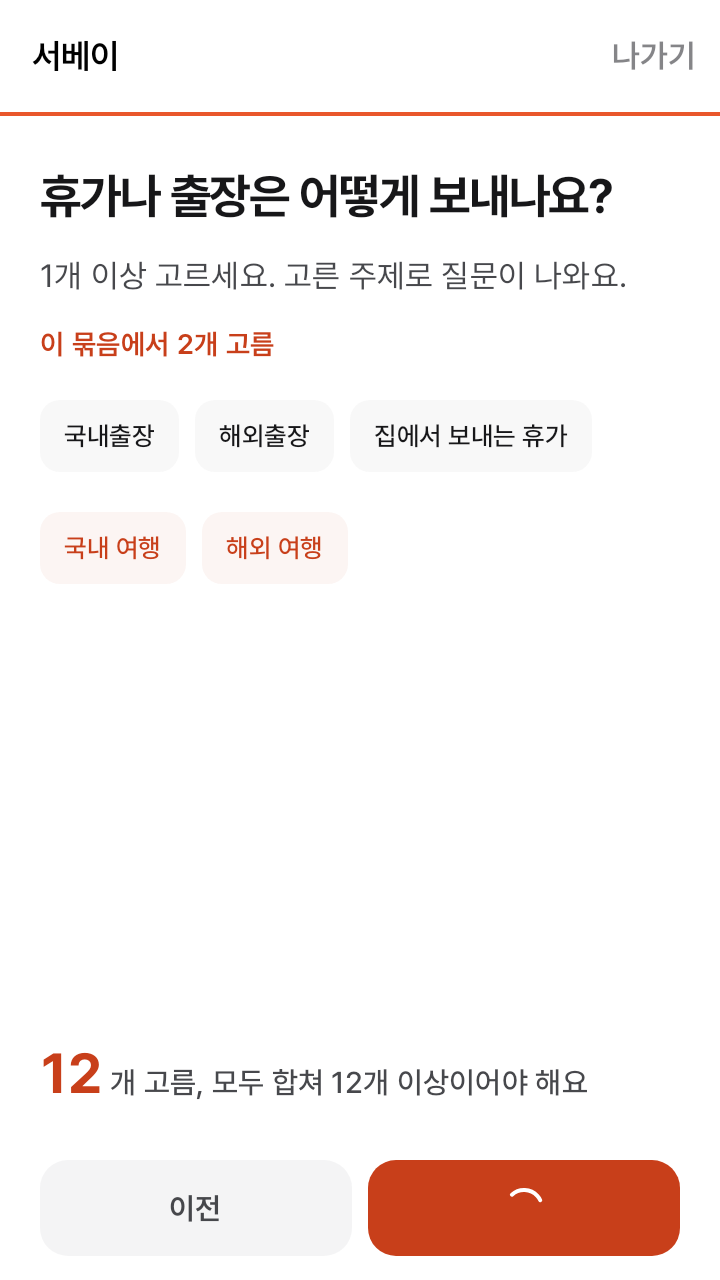
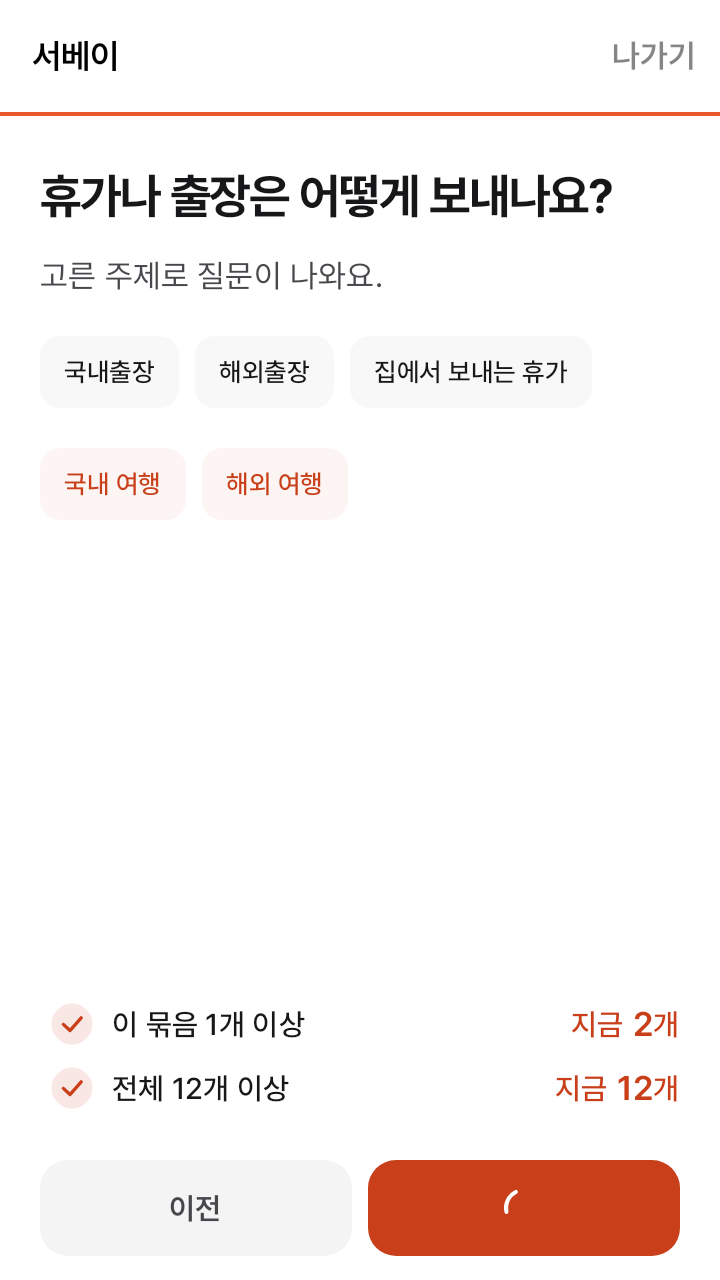
[survey-count] 서베이 묶음 화면마다 묶음 최소와 전체 12개 조건을 버튼 위에 고정해 보인다 (#187)

diff --git a/ui/feature-exam/src/commonMain/kotlin/io/github/nosorae/aiopic/ui/featureexam/SurveyFlow.kt b/ui/feature-exam/src/commonMain/kotlin/io/github/nosorae/aiopic/ui/featureexam/SurveyFlow.kt
@@ -5,12 +5,14 @@ import androidx.compose.animation.slideInHorizontally
 import androidx.compose.animation.slideOutHorizontally
 import androidx.compose.animation.togetherWith
 import androidx.compose.foundation.layout.Arrangement
+import androidx.compose.foundation.layout.Box
 import androidx.compose.foundation.layout.Column
 import androidx.compose.foundation.layout.FlowRow
 import androidx.compose.foundation.layout.Row
 import androidx.compose.foundation.layout.fillMaxSize
 import androidx.compose.foundation.layout.fillMaxWidth
 import androidx.compose.foundation.layout.padding
+import androidx.compose.foundation.layout.size
 import androidx.compose.foundation.rememberScrollState
 import androidx.compose.foundation.verticalScroll
 import androidx.compose.material3.Text
@@ -27,6 +29,7 @@ import io.github.nosorae.aiopic.libs.haptics.api.HapticEffect
 import io.github.nosorae.aiopic.ui.design.LocalHaptics
 import io.github.nosorae.aiopic.ui.design.MontageButton
 import io.github.nosorae.aiopic.ui.design.MontageButtonType
+import io.github.nosorae.aiopic.ui.design.MontageCheckMark
 import io.github.nosorae.aiopic.ui.design.MontageChip
 import io.github.nosorae.aiopic.ui.design.MontageCountUp
 import io.github.nosorae.aiopic.ui.design.MontageListCell
@@ -38,7 +41,7 @@ import org.jetbrains.compose.resources.stringResource
 
 /**
  * 서베이 한 화면. 맨 위 진행 막대 아래에 질문 하나 또는 주제 묶음 하나를 그리고, 화면이 바뀌면 옆으로 밀려난다.
- * 마지막 묶음 화면이면 모든 묶음에서 고른 수를 맨 아래에 고정해 보인다.
+ * 묶음 화면이면 그 묶음의 최소 개수와 전체 최소 개수를 맨 아래에 고정해 보인다.
  * 앞으로 가면 새 화면이 오른쪽에서, 뒤로 가면 왼쪽에서 들어온다. 모의시험의 서베이 단계와 설정의 서베이가 같이 쓴다.
  */
 @Composable
@@ -61,7 +64,7 @@ fun SurveyFlow(state: SurveyState, onChoose: (String) -> Unit, onToggle: (String
             shown.group?.let { GroupScreen(shown, it, onToggle, scrolling) }
         }
         // 큰 글자에서 칩이 길어져도 스크롤 아래로 밀리지 않게 스크롤 밖, 버튼 바로 위에 둔다.
-        if (state.isLast) Total(state)
+        state.group?.let { Needs(state, it) }
     }
 }
 
@@ -117,16 +120,9 @@ private fun QuestionScreen(question: SurveyQuestion, chosen: String?, onChoose: 
 @Composable
 private fun GroupScreen(state: SurveyState, group: TopicGroup, onToggle: (String) -> Unit, modifier: Modifier = Modifier) {
     val haptics = LocalHaptics.current
-    val count = state.selectedIn(group)
     Column(modifier, verticalArrangement = Arrangement.spacedBy(MontageSpacing.spacing12)) {
         Title(group.title)
-        Help(stringResource(Res.string.survey_group_help, group.min))
-        Text(
-            text = stringResource(Res.string.survey_group_count, count),
-            style = MontageTheme.typography.label1.bold,
-            color = if (count >= group.min) MontageTheme.colors.foregroundBrandPrimary else MontageTheme.colors.foregroundNeutralSecondary,
-            modifier = Modifier.padding(horizontal = Gutter),
-        )
+        Help(stringResource(Res.string.survey_group_help))
         FlowRow(
             modifier = Modifier.padding(horizontal = Gutter),
             horizontalArrangement = Arrangement.spacedBy(MontageSpacing.spacing8),
@@ -147,27 +143,43 @@ private fun GroupScreen(state: SurveyState, group: TopicGroup, onToggle: (String
     }
 }
 
-/** 마지막 묶음 화면에서 모든 묶음에서 고른 수를 숫자로 보인다. 모자라면 앞 묶음으로 돌아가라고 알린다. */
+/**
+ * 묶음 화면 아래 두 조건. 이 묶음 최소 개수와 전체 최소 개수(12개)를 지금 고른 수와 함께 보이고, 채운 조건에만 체크와 강조색을 준다.
+ * 어느 묶음에서든 전체까지 몇 개 남았는지 보인다. 마지막 묶음에서 전체가 모자라면 앞 묶음으로 돌아가라고 알린다.
+ */
 @Composable
-private fun Total(state: SurveyState) {
-    val enough = state.topics.size >= state.survey.minTopics
-    val color = if (enough) MontageTheme.colors.foregroundBrandPrimary else MontageTheme.colors.foregroundNeutralPrimary
-    Column(Modifier.padding(vertical = MontageSpacing.spacing12), verticalArrangement = Arrangement.spacedBy(MontageSpacing.spacing8)) {
-        Row(
-            modifier = Modifier.padding(horizontal = Gutter),
-            verticalAlignment = Alignment.Bottom,
-            horizontalArrangement = Arrangement.spacedBy(MontageSpacing.spacing4),
-        ) {
-            MontageCountUp(state.topics.size, Modifier.testTag("survey-total"), style = MontageTheme.typography.title2.bold, color = color)
-            Text(
-                text = stringResource(Res.string.survey_total_suffix, state.survey.minTopics),
-                style = MontageTheme.typography.body2.medium,
-                color = MontageTheme.colors.foregroundNeutralSecondary,
-                // 큰 글자에서 숫자를 밀어내지 않고 줄을 바꾼다.
-                modifier = Modifier.weight(1f, fill = false).padding(bottom = MontageSpacing.spacing4),
-            )
+private fun Needs(state: SurveyState, group: TopicGroup) {
+    val inGroup = state.selectedIn(group)
+    val total = state.topics.size
+    val enough = total >= state.survey.minTopics
+    Column(Modifier.padding(vertical = MontageSpacing.spacing8)) {
+        Need(stringResource(Res.string.survey_need_group, group.min), inGroup, inGroup >= group.min, "survey-group")
+        Need(stringResource(Res.string.survey_need_total, state.survey.minTopics), total, enough, "survey-total")
+        if (state.isLast && !enough) Help(stringResource(Res.string.survey_total_short))
+    }
+}
+
+/** 조건 한 줄. 채우면 왼쪽에 체크가 그려지고 숫자가 강조색이 된다. 숫자에는 [tag] 를, 체크에는 `[tag]-met` 를 붙인다. */
+@Composable
+private fun Need(label: String, count: Int, met: Boolean, tag: String) {
+    val color = if (met) MontageTheme.colors.foregroundBrandPrimary else MontageTheme.colors.foregroundNeutralSecondary
+    Row(
+        modifier = Modifier.padding(horizontal = Gutter),
+        verticalAlignment = Alignment.CenterVertically,
+        horizontalArrangement = Arrangement.spacedBy(MontageSpacing.spacing4),
+    ) {
+        Box(Modifier.size(MontageSpacing.spacing32)) { if (met) MontageCheckMark(Modifier.fillMaxSize().testTag("$tag-met")) }
+        Text(
+            text = label,
+            style = MontageTheme.typography.body2.medium,
+            color = MontageTheme.colors.foregroundNeutralPrimary,
+            modifier = Modifier.weight(1f),
+        )
+        Text(stringResource(Res.string.survey_need_now), style = MontageTheme.typography.body2.medium, color = color)
+        Row(verticalAlignment = Alignment.CenterVertically) {
+            MontageCountUp(count, Modifier.testTag(tag), style = MontageTheme.typography.headline2.bold, color = color)
+            Text(stringResource(Res.string.survey_need_unit), style = MontageTheme.typography.body2.medium, color = color)
         }
-        if (!enough) Help(stringResource(Res.string.survey_total_short))
     }
 }
 

diff --git a/ui/feature-exam/src/androidHostTest/kotlin/io/github/nosorae/aiopic/ui/featureexam/ExamScreenTest.kt b/ui/feature-exam/src/androidHostTest/kotlin/io/github/nosorae/aiopic/ui/featureexam/ExamScreenTest.kt
@@ -3,6 +3,7 @@ package io.github.nosorae.aiopic.ui.featureexam
 import androidx.compose.runtime.CompositionLocalProvider
 import androidx.compose.ui.test.assertIsDisplayed
 import androidx.compose.ui.test.assertIsNotEnabled
+import androidx.compose.ui.test.assertTextEquals
 import androidx.compose.ui.test.hasAnyAncestor
 import androidx.compose.ui.test.hasScrollAction
 import androidx.compose.ui.test.hasTestTag
@@ -99,11 +100,29 @@ class ExamScreenTest {
     }
 
     @Test
-    fun `F2_2 마지막 묶음의 전체 선택 수는 스크롤 밖에 있어 큰 글자에서도 아래로 밀리지 않는다`() {
+    fun `F2_2 첫 묶음 화면부터 전체 선택 수가 스크롤 밖 버튼 위에 있어 큰 글자에서도 아래로 밀리지 않는다`() {
+        show(ExamSamples.surveyGroup)
+
+        rule.onNodeWithTag("survey-total").assertIsDisplayed().assertTextEquals("3")
+        rule.onNode(hasTestTag("survey-total") and hasAnyAncestor(hasScrollAction())).assertDoesNotExist()
+    }
+
+    @Test
+    fun `F2_2 묶음 최소를 채우면 그 조건에만 체크가 붙고 전체 12개가 남았으면 전체에는 체크가 없다`() {
+        show(ExamSamples.surveyGroup)
+
+        rule.onNodeWithText("이 묶음 2개 이상").assertIsDisplayed()
+        rule.onNodeWithText("전체 12개 이상").assertIsDisplayed()
+        rule.onNodeWithTag("survey-group-met").assertIsDisplayed()
+        rule.onNodeWithTag("survey-total-met").assertDoesNotExist()
+    }
+
+    @Test
+    fun `F2_2 전체 12개에 닿으면 전체 조건에도 체크가 붙는다`() {
         show(ExamSamples.surveyReady)
 
-        rule.onNodeWithTag("survey-total").assertIsDisplayed()
-        rule.onNode(hasTestTag("survey-total") and hasAnyAncestor(hasScrollAction())).assertDoesNotExist()
+        rule.onNodeWithTag("survey-group-met").assertIsDisplayed()
+        rule.onNodeWithTag("survey-total-met").assertIsDisplayed()
     }
 
     @Test

diff --git a/ui/feature-exam/src/androidHostTest/kotlin/io/github/nosorae/aiopic/ui/featureexam/ExamScreenshotTest.kt b/ui/feature-exam/src/androidHostTest/kotlin/io/github/nosorae/aiopic/ui/featureexam/ExamScreenshotTest.kt
@@ -53,6 +53,8 @@ class ExamScreenshotTest {
 
     @Test fun survey_dark() = shot(ExamSamples.survey, dark = true)
 
+    @Test fun surveyGroup_dark() = shot(ExamSamples.surveyGroup, dark = true)
+
     @Test fun surveyReady_dark() = shot(ExamSamples.surveyReady, dark = true)
 
     @Test fun questionReplayable_dark() = shot(ExamSamples.questionReplayable, dark = true)
@@ -60,6 +62,10 @@ class ExamScreenshotTest {
     @Config(fontScale = 2f)
     @Test
     fun survey_fontScale200() = shot(ExamSamples.survey)
+
+    @Config(fontScale = 2f)
+    @Test
+    fun surveyGroup_fontScale200() = shot(ExamSamples.surveyGroup)
 
     @Config(fontScale = 2f)
     @Test

diff --git a/apps/opic/iosApp/iosAppUITests/SurveyUITests.swift b/apps/opic/iosApp/iosAppUITests/SurveyUITests.swift
@@ -29,6 +29,7 @@ final class SurveyUITests: XCTestCase {
         app.tabBars.buttons["설정"].tap()
         app.tapTag("settings-survey")
         for option in ["work-3", "student-1", "course-last-3", "housing-0"] { app.tapTag("survey-option-\(option)") }
+        XCTAssertTrue(waitUntil(5) { self.app.tag("survey-total").label == "12" }, "첫 묶음 화면에 전체 선택 수가 보이지 않는다")
         shot("3-묶음")
         for _ in 0..<3 { app.tapTag("survey-next") }
         XCTAssertTrue(waitUntil(5) { self.app.tag("survey-total").label == "12" }, "저장한 주제 12개가 채워져 있지 않다")
